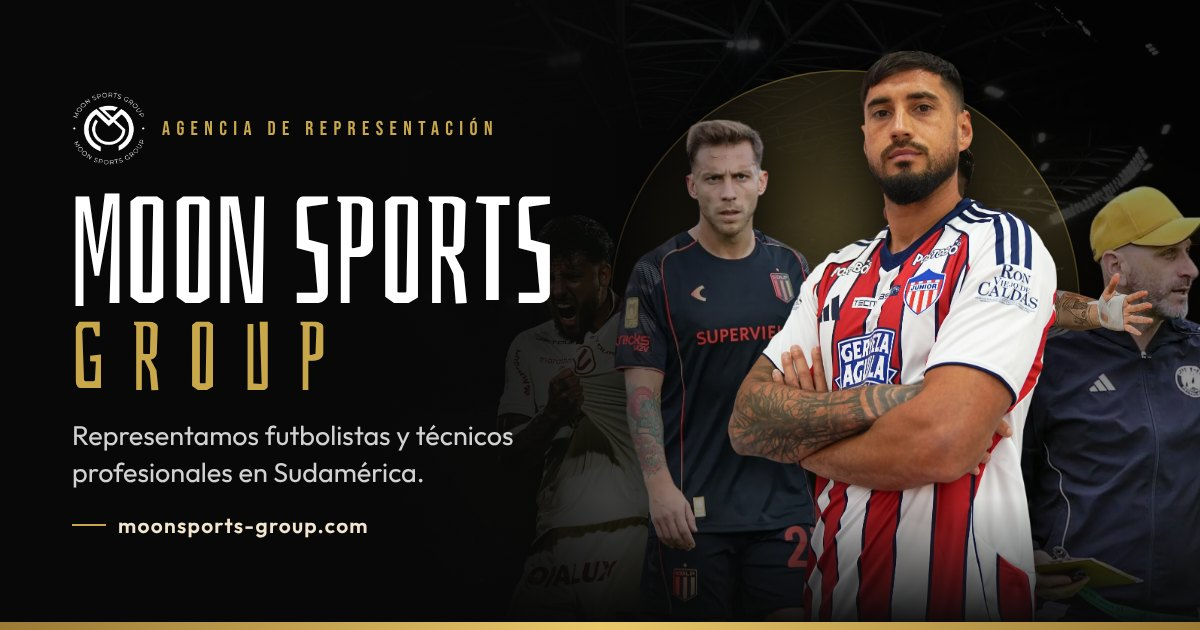
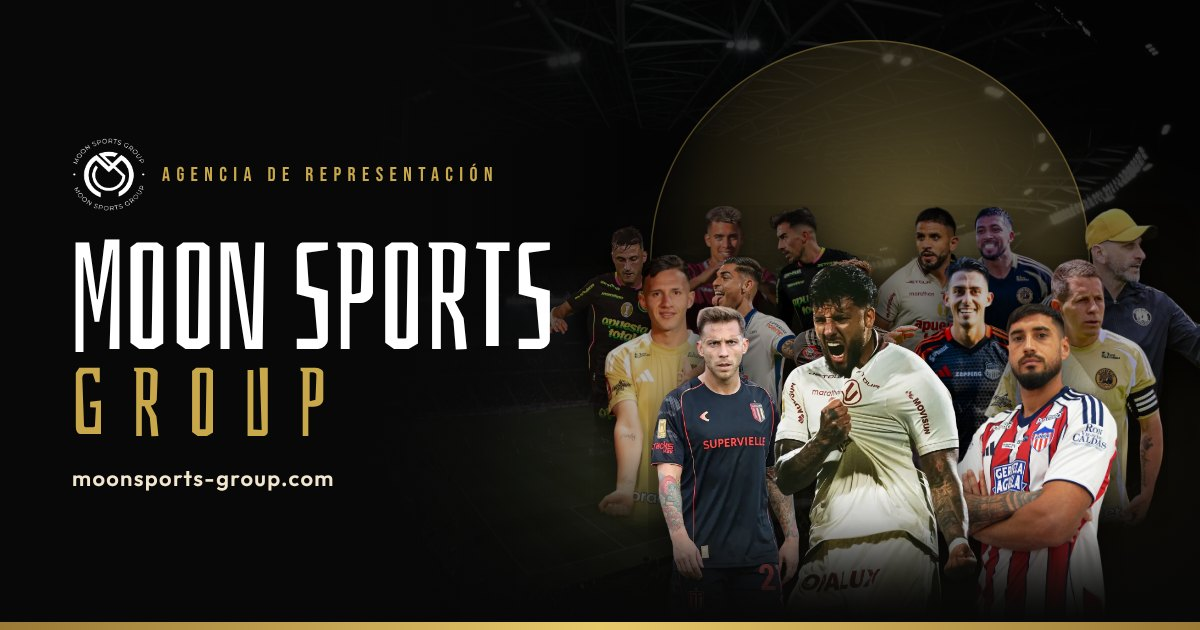
og-image: los 14 representados en formación, sin descripción
- Tres filas escalonadas, más chicas: Cain Fara al frente, Ezequiel Piovi y
  Francisco Fydriszewski a los costados, el resto detrás.
- Se quitan la frase descriptiva y la línea delante del dominio.
- seo/og.mjs usa el Playwright instalado (proyecto o global).

Claude-Session: https://claude.ai/code/session_01SrwUJS6MufB7wiZPYSiQJz

diff --git a/seo/og.html b/seo/og.html
@@ -14,12 +14,14 @@
     background:radial-gradient(60% 80% at 78% 70%,rgba(201,168,76,.22),transparent 65%),var(--black)}
   .pitch{position:absolute;inset:0;z-index:-2;background:url(../src/assets/images/fondo_hero.webp) center 70%/cover;filter:grayscale(.6) brightness(.35);opacity:.55;
     -webkit-mask-image:linear-gradient(90deg,transparent 15%,#000 60%);mask-image:linear-gradient(90deg,transparent 15%,#000 60%)}
-  .moon{position:absolute;right:120px;top:70px;width:470px;height:470px;border-radius:50%;z-index:-1;
+  .moon{position:absolute;right:110px;top:40px;width:440px;height:440px;border-radius:50%;z-index:-1;
     background:radial-gradient(circle at 60% 40%,rgba(232,201,106,.35),rgba(201,168,76,.1) 55%,transparent 70%);box-shadow:inset 0 0 0 1.5px rgba(201,168,76,.35)}
-  .players{position:absolute;right:-10px;bottom:0;width:720px;height:600px}
-  .players img{position:absolute;bottom:0;height:var(--h);left:var(--x);filter:drop-shadow(0 20px 30px rgba(0,0,0,.7)) brightness(var(--b,1))}
+  .players{position:absolute;right:0;bottom:0;width:740px;height:630px}
+  .players img{position:absolute;bottom:var(--y,0px);height:var(--h);left:var(--x);transform:translateX(-50%);
+    filter:drop-shadow(0 12px 18px rgba(0,0,0,.7)) brightness(var(--b,1));
+    -webkit-mask-image:linear-gradient(180deg,#000 70%,transparent 98%);mask-image:linear-gradient(180deg,#000 70%,transparent 98%)}
   .players::after{content:"";position:absolute;inset:auto 0 0;height:22%;background:linear-gradient(transparent,var(--black))}
-  .fade{position:absolute;inset:0;background:linear-gradient(90deg,var(--black) 30%,rgba(8,8,8,.75) 46%,transparent 64%)}
+  .fade{position:absolute;inset:0;background:linear-gradient(90deg,var(--black) 30%,rgba(8,8,8,.6) 40%,transparent 50%)}
   .txt{position:absolute;left:72px;top:0;bottom:0;width:560px;display:flex;flex-direction:column;justify-content:center;gap:22px}
   .brand{display:flex;align-items:center;gap:16px}
   .brand img{width:74px;height:74px;filter:brightness(0) invert(1)}
@@ -27,8 +29,7 @@
   h1{font-family:Bahianita,'Bebas Neue',sans-serif;font-weight:400;font-size:150px;line-height:.82;text-transform:uppercase;letter-spacing:.01em}
   h1 em{display:block;font-style:normal;color:var(--gold);font-size:96px;letter-spacing:.28em;margin-top:6px}
   p{font-size:27px;line-height:1.35;color:rgba(255,255,255,.82);max-width:17em}
-  .url{display:inline-flex;align-items:center;gap:12px;font-size:21px;font-weight:600;letter-spacing:.06em;color:var(--cream)}
-  .url::before{content:"";width:34px;height:2px;background:var(--gold)}
+  .url{font-size:22px;font-weight:600;letter-spacing:.06em;color:var(--cream)}
   .bar{position:absolute;left:0;right:0;bottom:0;height:8px;background:linear-gradient(90deg,var(--gold-d),var(--gold-l),var(--gold-d))}
 </style>
 </head>
@@ -37,17 +38,25 @@
   <div class="pitch"></div>
   <div class="moon"></div>
   <div class="players">
-    <img src="../src/assets/images/cain_fara.webp" style="--h:420px;--x:0px;--b:.55" alt="">
-    <img src="../src/assets/images/miguel_rondelli.webp" style="--h:450px;--x:470px;--b:.6" alt="">
-    <img src="../src/assets/images/ezequiel_piovi.webp" style="--h:520px;--x:120px;--b:.8" alt="">
-    <img src="../src/assets/images/luis_ramos1.webp" style="--h:500px;--x:330px;--b:.8" alt="">
-    <img src="../src/assets/images/francisco_fydriszewski.webp" style="--h:585px;--x:230px" alt="">
+    <img src="../src/assets/images/hector_fertoli.webp" style="--x:170px;--h:230px;--b:0.5;--y:175px" alt="">
+    <img src="../src/assets/images/andres_zanini.webp" style="--x:265px;--h:250px;--b:0.5;--y:175px" alt="">
+    <img src="../src/assets/images/lisandro_alzugaray1.webp" style="--x:365px;--h:250px;--b:0.5;--y:175px" alt="">
+    <img src="../src/assets/images/matias_dibenedetto.webp" style="--x:465px;--h:250px;--b:0.5;--y:175px" alt="">
+    <img src="../src/assets/images/ivan_colman.webp" style="--x:565px;--h:250px;--b:0.5;--y:175px" alt="">
+    <img src="../src/assets/images/miguel_rondelli.webp" style="--x:665px;--h:250px;--b:0.5;--y:175px" alt="">
+    <img src="../src/assets/images/julian_aquino.webp" style="--x:205px;--h:280px;--b:0.72;--y:95px" alt="">
+    <img src="../src/assets/images/luis_ramos1.webp" style="--x:310px;--h:280px;--b:0.72;--y:95px" alt="">
+    <img src="../src/assets/images/facundo_callejo.webp" style="--x:415px;--h:280px;--b:0.72;--y:95px" alt="">
+    <img src="../src/assets/images/juan_ruizgomez.webp" style="--x:515px;--h:280px;--b:0.72;--y:95px" alt="">
+    <img src="../src/assets/images/nicolas_silva.webp" style="--x:615px;--h:280px;--b:0.72;--y:95px" alt="">
+    <img src="../src/assets/images/ezequiel_piovi.webp" style="--x:265px;--h:330px;--b:1;--y:0px" alt="">
+    <img src="../src/assets/images/francisco_fydriszewski.webp" style="--x:565px;--h:330px;--b:1;--y:0px" alt="">
+    <img src="../src/assets/images/cain_fara.webp" style="--x:415px;--h:370px;--b:1;--y:0px" alt="">
   </div>
   <div class="fade"></div>
   <div class="txt">
     <div class="brand"><img src="../src/assets/images/logo_principal.webp" alt=""><span>Agencia de representación</span></div>
     <h1>Moon Sports<em>Group</em></h1>
-    <p>Representamos futbolistas y técnicos profesionales en Sudamérica.</p>
     <span class="url">moonsports-group.com</span>
   </div>
   <div class="bar"></div>
